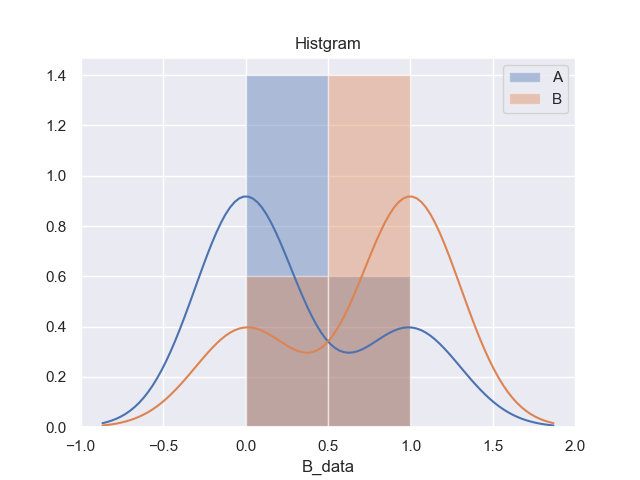
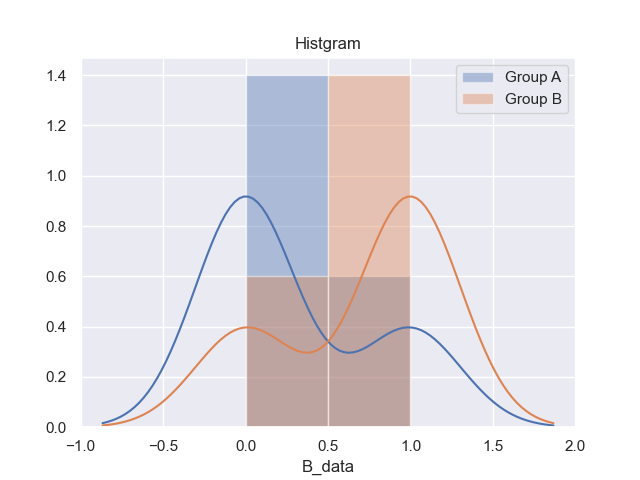
表示順を検定結果→グラフに修正

Changed region(s): [[0.7188, 0.125, 0.875, 0.2188]]

diff --git a/result.html b/result.html
@@ -5,16 +5,23 @@
     <meta charset="utf-8">
     <meta name="viewport" content="width=device-width, initial-scale=1, shrink-to-fit=no">
     <link rel="stylesheet" href="https://maxcdn.bootstrapcdn.com/bootstrap/4.0.0/css/bootstrap.min.css">
+    <style type="text/css">
+      <!--
+      table {
+        display:inline;
+        border:1px lightgray;
+        margin-right: 3px;
+        }
+      -->
+    </style>
   </head>
   <body>
-<img src='box.png'><img src='violin.png'><img src='hist.png'><img src='bar.png'><br>対応がないt検定<br>P value : 0.08055387210850919<br>有意差なし<br><br><table border="1" class="dataframe">
+対応がないt検定<br>P value : 0.08055387210850919<br>有意差なし<br><br><table border="1" class="dataframe">
   <thead>
     <tr style="text-align: right;">
       <th></th>
       <th>A_user</th>
       <th>A_data</th>
-      <th>B_user</th>
-      <th>B_data</th>
     </tr>
   </thead>
   <tbody>
@@ -22,73 +29,113 @@
       <th>0</th>
       <td>ME O</td>
       <td>1</td>
-      <td>NB O</td>
-      <td>0</td>
     </tr>
     <tr>
       <th>1</th>
       <td>ME T</td>
       <td>0</td>
-      <td>NB T</td>
-      <td>1</td>
     </tr>
     <tr>
       <th>2</th>
       <td>NB T</td>
       <td>0</td>
-      <td>ME A</td>
-      <td>1</td>
     </tr>
     <tr>
       <th>3</th>
       <td>EL H</td>
-      <td>0</td>
-      <td>AR I</td>
       <td>0</td>
     </tr>
     <tr>
       <th>4</th>
       <td>NB F</td>
       <td>1</td>
-      <td>NB E</td>
-      <td>1</td>
     </tr>
     <tr>
       <th>5</th>
       <td>SU A</td>
       <td>0</td>
-      <td>SU S</td>
-      <td>1</td>
     </tr>
     <tr>
       <th>6</th>
       <td>SU O</td>
-      <td>1</td>
-      <td>SU T</td>
       <td>1</td>
     </tr>
     <tr>
       <th>7</th>
       <td>SU E</td>
       <td>0</td>
-      <td>SU O</td>
-      <td>1</td>
     </tr>
     <tr>
       <th>8</th>
       <td>AR I</td>
-      <td>0</td>
-      <td>ME K</td>
       <td>0</td>
     </tr>
     <tr>
       <th>9</th>
       <td>ME Y</td>
       <td>0</td>
+    </tr>
+  </tbody>
+</table><table border="1" class="dataframe">
+  <thead>
+    <tr style="text-align: right;">
+      <th></th>
+      <th>B_user</th>
+      <th>B_data</th>
+    </tr>
+  </thead>
+  <tbody>
+    <tr>
+      <th>0</th>
+      <td>NB O</td>
+      <td>0</td>
+    </tr>
+    <tr>
+      <th>1</th>
+      <td>NB T</td>
+      <td>1</td>
+    </tr>
+    <tr>
+      <th>2</th>
+      <td>ME A</td>
+      <td>1</td>
+    </tr>
+    <tr>
+      <th>3</th>
+      <td>AR I</td>
+      <td>0</td>
+    </tr>
+    <tr>
+      <th>4</th>
+      <td>NB E</td>
+      <td>1</td>
+    </tr>
+    <tr>
+      <th>5</th>
+      <td>SU S</td>
+      <td>1</td>
+    </tr>
+    <tr>
+      <th>6</th>
+      <td>SU T</td>
+      <td>1</td>
+    </tr>
+    <tr>
+      <th>7</th>
+      <td>SU O</td>
+      <td>1</td>
+    </tr>
+    <tr>
+      <th>8</th>
+      <td>ME K</td>
+      <td>0</td>
+    </tr>
+    <tr>
+      <th>9</th>
       <td>ES O</td>
       <td>1</td>
     </tr>
   </tbody>
-</table>
+</table><br><img src='box.png'><img src='violin.png'><img src='hist.png'><img src='bar.png'>
   </body>
 </html>

diff --git a/tTest.py b/tTest.py
@@ -17,6 +17,15 @@ html_header = """
     <meta charset="utf-8">
     <meta name="viewport" content="width=device-width, initial-scale=1, shrink-to-fit=no">
     <link rel="stylesheet" href="https://maxcdn.bootstrapcdn.com/bootstrap/4.0.0/css/bootstrap.min.css">
+    <style type="text/css">
+      <!--
+      table {
+        display:inline;
+        border:1px lightgray;
+        margin-right: 3px;
+        }
+      -->
+    </style>
   </head>
   <body>
 """
@@ -42,8 +51,8 @@ plt.title("violin plot")
 plt.savefig("violin.png")
 plt.clf()
 
-sns.distplot(a_csvData.A_data,label="A")
-sns.distplot(b_csvData.B_data,label="B")
+sns.distplot(a_csvData.A_data,label="Group A")
+sns.distplot(b_csvData.B_data,label="Group B")
 plt.legend()
 plt.title("Histgram")  
 plt.savefig("hist.png")
@@ -53,8 +62,6 @@ sns.barplot(x="Group",y="Data",data=anlyDf)
 plt.title("Bar plot")  
 plt.savefig("bar.png")
 plt.clf()
-
-csvDf = a_csvData.join(b_csvData)
 
 tTestResult = stats.ttest_ind(a_csvData.A_data, b_csvData.B_data, equal_var = False)
 resultStrPVal = "P value : "+str(tTestResult.pvalue)
@@ -67,12 +74,6 @@ else:
 # html output
 with open("result.html", mode="w", encoding="utf_8") as fileObj:
   fileObj.write(html_header)
-  fileObj.write("<img src='box.png'>")
-  fileObj.write("<img src='violin.png'>")
-  fileObj.write("<img src='hist.png'>")
-  fileObj.write("<img src='bar.png'>")
-  fileObj.write("<br>")
-  
   fileObj.write("対応がないt検定")
   fileObj.write("<br>")
   fileObj.write(resultStrPVal)
@@ -80,5 +81,13 @@ with open("result.html", mode="w", encoding="utf_8") as fileObj:
   fileObj.write(resultStrTTest)
   fileObj.write("<br>")
   fileObj.write("<br>")
-  fileObj.write(csvDf.to_html())
+  fileObj.write(a_csvData.to_html())
+  fileObj.write(b_csvData.to_html())
+  fileObj.write("<br>")
+
+  fileObj.write("<img src='box.png'>")
+  fileObj.write("<img src='violin.png'>")
+  fileObj.write("<img src='hist.png'>")
+  fileObj.write("<img src='bar.png'>")
+
   fileObj.write(html_footer)
